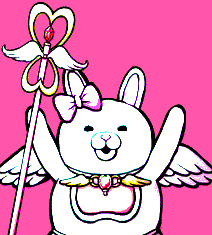
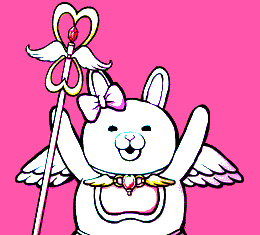
Usami: full-width poses on the round watches
On chalk and gabbro the foreground area is narrower than the screen, so
wings and wands stopped at a straight edge with pink beside them. A new
convert.json option, full_width, widens each crop window to the screen
width at the same zoom; Usami's face_config.h draws them at FG_X 0.

diff --git a/faces/usami/src/c/face_config.h b/faces/usami/src/c/face_config.h
@@ -23,8 +23,10 @@
 #define CLOCK_OUTLINE_COLOR GColorWhite
 
 // Per-platform layout, scaled from emery's. The foreground keeps emery's
-// 200:172 shape and sits on the bottom edge; the clock is centered in the
-// band above it. Keep FG sizes in sync with shared/tools/convert_images.py.
+// 200:172 height and sits on the bottom edge; on the round screens it spans
+// the full width so the sides of a pose aren't cut. The clock is centered in
+// the band above it. Keep FG sizes in sync with shared/tools/convert_images.py
+// (and convert.json's "full_width").
 // CUSTOM_FONT_* is the bundled clock font (DorBlue here); LECO_* is
 // Pebble's built-in alternative offered in the settings.
 #if defined(PBL_PLATFORM_BASALT) || defined(PBL_PLATFORM_APLITE) || \
@@ -39,8 +41,8 @@
 #define SLIDE_STEP        9
 #define CLOCK_OUTLINE_W   1
 #elif defined(PBL_PLATFORM_CHALK)       // 180x180 round
-#define FG_X              19
-#define FG_W              142
+#define FG_X              0     // full width (convert.json "full_width")
+#define FG_W              180
 #define FG_H              123
 #define CUSTOM_FONT_RES   RESOURCE_ID_FONT_DORBLUE_32
 #define CUSTOM_FONT_Y     15
@@ -49,8 +51,8 @@
 #define SLIDE_STEP        9
 #define CLOCK_OUTLINE_W   1
 #elif defined(PBL_PLATFORM_GABBRO)      // 260x260 round
-#define FG_X              24
-#define FG_W              212
+#define FG_X              0     // full width (convert.json "full_width")
+#define FG_W              260
 #define FG_H              182
 #define CUSTOM_FONT_RES   RESOURCE_ID_FONT_DORBLUE_46
 #define CUSTOM_FONT_Y     20

diff --git a/shared/tools/convert_images.py b/shared/tools/convert_images.py
@@ -48,6 +48,11 @@ A face can have a faces/<face>/convert.json; every key is optional:
         of the clock band. That image is taller than the foreground area,
         and the engine draws the extra rows over the band. The band must be
         plain background color, so the extra rows can be opaque.
+    "full_width": true  with "crops": on the round platforms, whose
+        foreground areas are narrower than the screen, the views come out
+        as wide as the screen (same zoom, more of the sides), so wings and
+        wands aren't cut where the screen still has room. Set FG_X 0 and
+        FG_W to the screen width for chalk and gabbro in face_config.h.
 Without background1.png's red shape, the menu icon comes from
 unscaled/menu_icon.png (an RGBA image of any size) instead.
 
@@ -428,7 +433,12 @@ def main():
             if name in crops:
                 max_extra = (spec["screen"][1] - fg_h
                              if config.get("extend_into_clock") else 0)
-                scaled = crop_view(src, fg_w, fg_h, fill, crops[name],
+                # "full_width": span the whole screen (the round ones'
+                # foregrounds are narrower) at the same zoom, so the view
+                # just widens instead of cutting the sides.
+                view_w = (spec["screen"][0] if config.get("full_width")
+                          else fg_w)
+                scaled = crop_view(src, view_w, fg_h, fill, crops[name],
                                    max_extra)
             else:
                 scaled = scale(src, fg_w, fg_h, fill)

diff --git a/faces/usami/README.md b/faces/usami/README.md
@@ -21,7 +21,7 @@ Then convert the images (next section).
 
 ## The poses
 
-The originals in `resources/images/unscaled/` (`front01.png` … `front12.png`) are full-body sprites with transparent backgrounds, all drawn at the same scale. Unlike Monokuma's, they aren't zoomed one by one: each gets a fixed crop window, the same size for every pose, so Usami is the same size in all of them. The window is placed by the heart brooch on Usami's collar. It runs from just above the ear tips to the top of the skirt, so the skirt is cut off the way Monokuma's originals stop at his belly. Anything above the window, usually the wand, isn't cut off: with `"extend_into_clock": true` in `convert.json`, those poses (01, 02, 04, 09, 10 and 12) come out taller and reach up into the pink clock band, up to its full height, and the digits are drawn over them. Wing tips can still be cut at the sides.
+The originals in `resources/images/unscaled/` (`front01.png` … `front12.png`) are full-body sprites with transparent backgrounds, all drawn at the same scale. Unlike Monokuma's, they aren't zoomed one by one: each gets a fixed crop window, the same size for every pose, so Usami is the same size in all of them. The window is placed by the heart brooch on Usami's collar. It runs from just above the ear tips to the top of the skirt, so the skirt is cut off the way Monokuma's originals stop at his belly. Anything above the window, usually the wand, isn't cut off: with `"extend_into_clock": true` in `convert.json`, those poses (01, 02, 04, 09, 10 and 12) come out taller and reach up into the pink clock band, up to its full height, and the digits are drawn over them. On the round watches (chalk and gabbro), whose foreground areas are narrower than the screen, `"full_width": true` widens each window to the full screen at the same zoom (with `FG_X 0` and `FG_W` set to the screen width in `src/c/face_config.h`), so the wings and wand reach the edge of the circle instead of stopping at a straight edge. Wing tips can still be cut at the sides of the rectangular screens.
 
 `tools/find_crops.py` finds each brooch and writes the windows to `convert.json` (`"crops"`). To show more or less of Usami, change `ABOVE` and `BELOW` at the top of the script.
 
